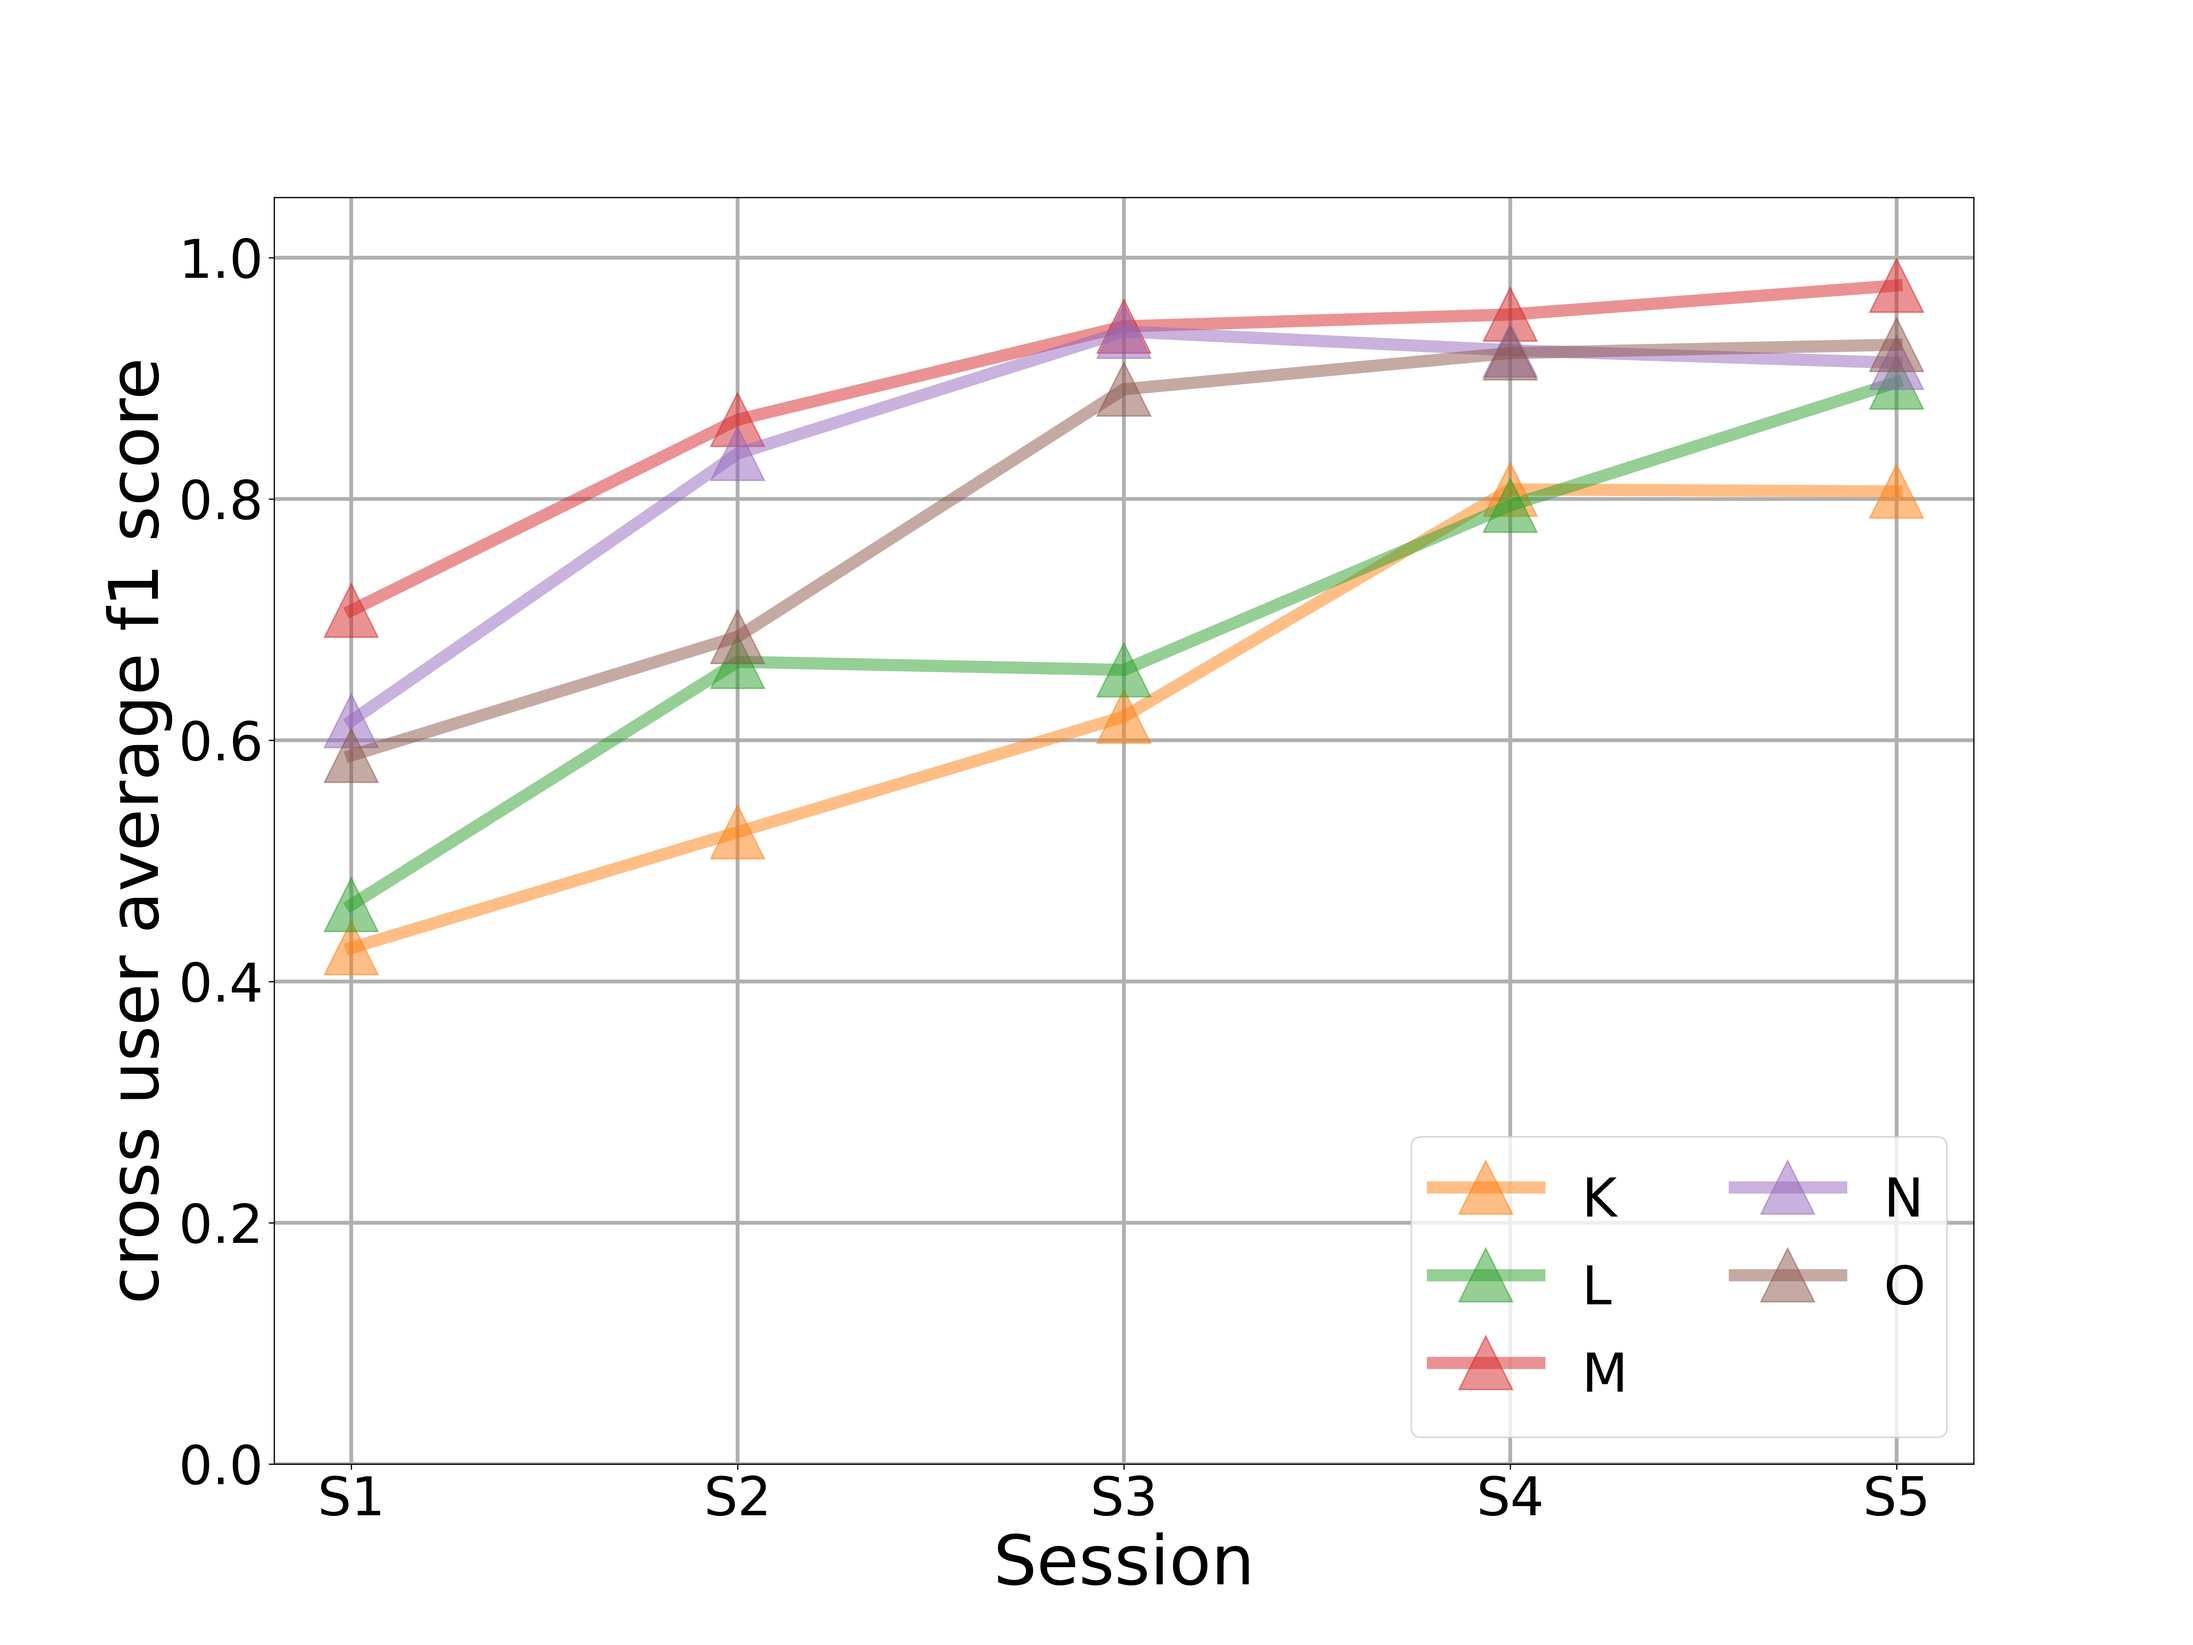
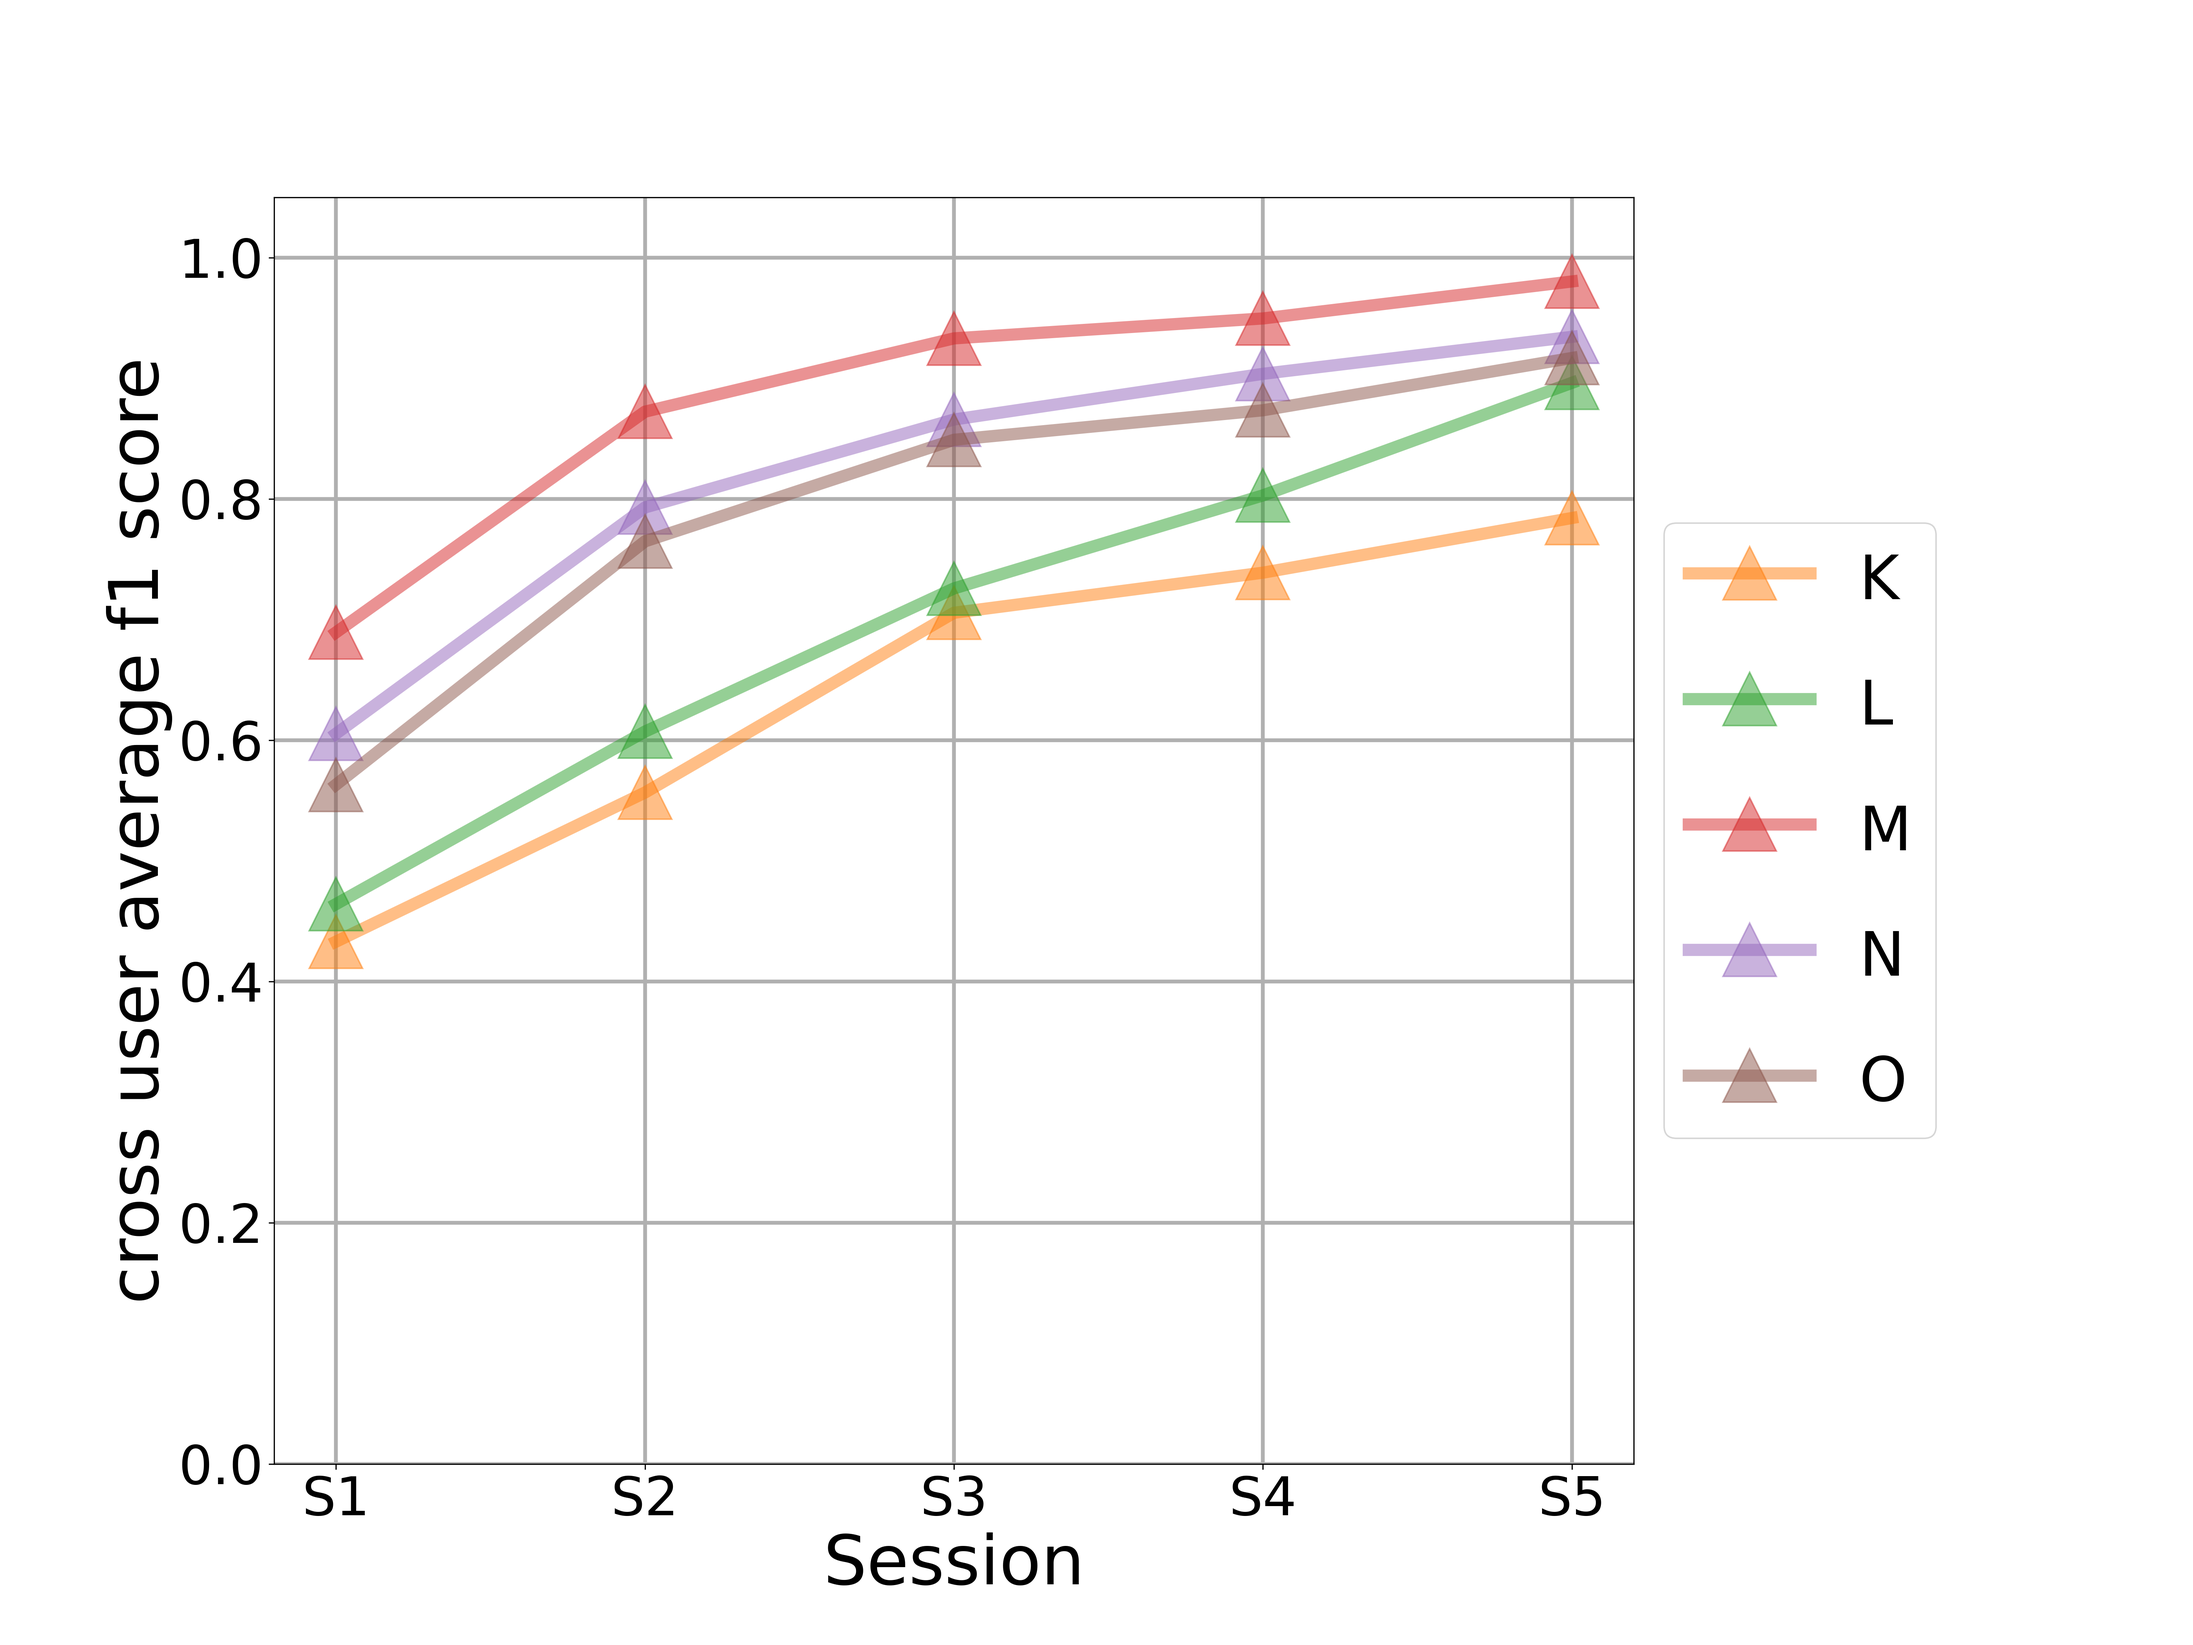
Final analysis for study 2

diff --git a/analysis/User_Study2_Analysis/accuracy_adaption_transfer_base_model.py b/analysis/User_Study2_Analysis/accuracy_adaption_transfer_base_model.py
@@ -32,11 +32,11 @@ from data_utils.prediction_utils import *
 
 
 participant_ids = [
-    1, 2, 4, 5, 7, 8, 9, 11, 13, 16, 18, 19
+    1, 2, 3, 4, 5, 7, 8, 9, 11, 12, 13, 16, 18, 19, 20, 21
 ]
 
-raw_acc_evaluation_dir = '../../HPC_Final_Study2_Complete_Test_Class_Balance/participants_session_raw_acc_evaluation'
-raw_prediction_evaluation_dir = '../../HPC_Final_Study2_Complete_Test_Class_Balance/participants_session_raw_prediction_evaluation'
+raw_acc_evaluation_dir = '../../HPC_Final_Study2_Complete_Test_Class_Balance_run_all/participants_session_raw_acc_evaluation'
+raw_prediction_evaluation_dir = '../../HPC_Final_Study2_Complete_Test_Class_Balance_run_all/participants_session_raw_prediction_evaluation'
 
 participant_complete_result = {}
 
@@ -56,7 +56,7 @@ original_model_f1_df = pd.DataFrame(columns=session_name)
 transfer_model_f1_df = pd.DataFrame(columns=session_name)
 transfer_fresh_model_f1_df = pd.DataFrame(columns=session_name)
 
-for index in range(1, len(participant_ids)):
+for index in range(1, len(participant_ids)+1):
     participant_result = participant_complete_result[index]
 
     original_model_f1 = []
@@ -104,7 +104,7 @@ char_column_name = ['A', 'B', 'C', 'D', 'E',
 
 char_f1 = None
 
-for index in range(1, len(participant_ids)):
+for index in range(1, len(participant_ids)+1):
 
     participant_original_model_char_f1_df = pd.DataFrame(columns=char_column_name)
     participant_transfer_model_char_f1_df = pd.DataFrame(columns=char_column_name)
@@ -185,15 +185,15 @@ for char_group in char_split_group:
     fig.savefig(os.path.join('char_f1', file_name)
                 , dpi=300)
 
-char_split_group = [range(0,11)]
+char_split_group = [range(0,8), range(8,16)]
 
 for char_group in char_split_group:
-    ax, fig = plot_dataframe_group_line(transfer_model_f1_df, plot_group=char_group, ylabel='Average F-1 Score', ncol=3)
+    ax, fig = plot_dataframe_group_line(transfer_model_f1_df, plot_group=char_group, ylabel='Average F-1 Score', ncol=4)
     file_name = 'transfer_model_f1_'+str(char_group[1]+1)+'_'+str(char_group[-1]+1)
     fig.savefig(os.path.join('user_f1/transfer_model', file_name)
                 , dpi=300)
 for char_group in char_split_group:
-    ax, fig = plot_dataframe_group_line(original_model_f1_df, plot_group=char_group, ylabel='Average F-1 Score', ncol=3)
+    ax, fig = plot_dataframe_group_line(original_model_f1_df, plot_group=char_group, ylabel='Average F-1 Score', ncol=4)
     file_name = 'original_model_f1_'+str(char_group[1]+1)+'_'+str(char_group[-1]+1)
     fig.savefig(os.path.join('user_f1/original_model', file_name)
                 , dpi=300)

diff --git a/analysis/User_Study2_Analysis/participants_final_result_analysis.py b/analysis/User_Study2_Analysis/participants_final_result_analysis.py
@@ -28,7 +28,7 @@ from data_utils.prediction_utils import *
 ######
 
 
-sys.argv.append('participant_7')
+sys.argv.append('participant_11')
 sys.argv.append('session_2')
 # sys.argv.append('1')
 
